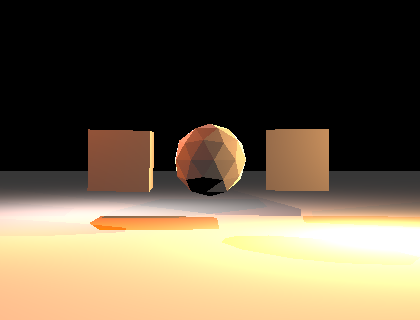
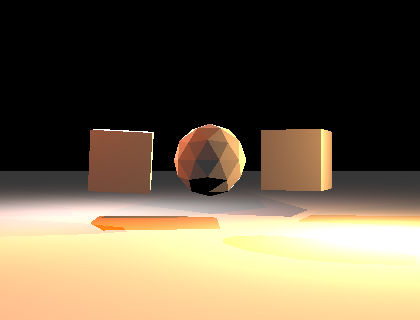
added an albedo map to PBR, cleaned up scene code a bit

diff --git a/src/material.rs b/src/material.rs
@@ -1,6 +1,6 @@
 use crate::{
     geometry::primitives::Vector,
-    lighting::{RadiometricUnit, Spectra},
+    lighting::{monochroma_spectra, white_spectra, RadiometricUnit, Spectra},
 };
 use std::{f32::consts::PI, fmt::Debug};
 
@@ -11,9 +11,11 @@ use std::{f32::consts::PI, fmt::Debug};
 pub struct PBR {
     pub metallic: f32,
     pub roughness: f32,
+    pub albedo: Spectra,
 }
 
-pub fn lamberts_law(ω: &Vector, normal: &Vector) -> f32 {
+/// Lambert's law of cosines
+pub fn cosθ(ω: &Vector, normal: &Vector) -> f32 {
     let divisor: f32 = ω.magnitude() * normal.magnitude();
 
     return ω.dot(normal) / divisor;
@@ -42,10 +44,11 @@ impl BRDF for PBR {
         let r = ω_i.magnitude();
 
         let r_o = ω_o.magnitude();
-        let incident_factor = lamberts_law(&ω_i, &normal); // cos(θ)
-        let outgoing_incident_factor = lamberts_law(&ω_o, &normal); // cos(θ)
-        let surface_irradiance =
-            (1. / (r * r)) * (incident_factor * incoming_radiant_intensity.clone());
+        let incident_factor = cosθ(&ω_i, &normal); // cos(θ)
+        let outgoing_incident_factor = cosθ(&ω_o, &normal); // cos(θ)
+        let surface_irradiance = (1. / (r * r))
+            * (incident_factor * incoming_radiant_intensity.clone())
+            * self.albedo.clone();
         // irradiance over a hemisphere divided by outgoing incidence
         let isotrophic_surface_radiance =
             (1. / (2. * PI)) / outgoing_incident_factor * surface_irradiance;
@@ -59,10 +62,21 @@ impl BRDF for PBR {
 }
 
 impl PBR {
-    pub const fn new(metallic: f32, roughness: f32) -> PBR {
+    pub const fn _new(metallic: f32, roughness: f32, albedo: Spectra) -> PBR {
         PBR {
             metallic,
             roughness,
+            albedo,
+        }
+    }
+}
+
+impl Default for PBR {
+    fn default() -> Self {
+        PBR {
+            metallic: 0.0,
+            roughness: 1.0,
+            albedo: white_spectra(RadiometricUnit::Flux),
         }
     }
 }

diff --git a/src/scene.rs b/src/scene.rs
@@ -82,37 +82,35 @@ pub fn simple_scene<'b>() -> Scene {
 
     let meshes = Vec::new();
     let mut objects = Vec::new();
-    let mesh = load_wavefront_obj("models/cube.obj".to_string());
+    let cube = load_wavefront_obj("models/cube.obj".to_string());
+    let sphere: Mesh = load_wavefront_obj("models/sphere.obj".to_string());
+    let plane: Mesh = load_wavefront_obj("models/plane.obj".to_string());
     let object = Object {
         position: Vector::new(-3.0, 0.0, -10.0),
-        meshes: vec![mesh],
+        meshes: vec![cube.clone()],
         ..Object::default()
     };
 
     objects.push(object);
 
-    let mesh = load_wavefront_obj("models/cube.obj".to_string());
     let object = Object {
         position: Vector::new(3.0, 0.0, -10.0),
-        meshes: vec![mesh],
+        meshes: vec![cube.clone()],
         ..Object::default()
     };
     objects.push(object);
-
-    let mesh: Mesh = load_wavefront_obj("models/sphere.obj".to_string());
 
     let object = Object {
         position: Vector::new(0., 0., -6.0),
-        meshes: vec![mesh],
-        material: Arc::new(PBR::new(1.0, 0.0)),
+        meshes: vec![sphere],
+        material: Arc::new(PBR::default()),
         ..Object::default()
     };
     objects.push(object);
 
-    let mesh: Mesh = load_wavefront_obj("models/plane.obj".to_string());
     let object = Object {
         position: Vector::new(0., -2., 0.0),
-        meshes: vec![mesh],
+        meshes: vec![plane],
         ..Object::default()
     };
     objects.push(object);

diff --git a/src/lighting.rs b/src/lighting.rs
@@ -150,6 +150,13 @@ pub fn black_spectra(unit: RadiometricUnit) -> Spectra {
     }
 }
 
+pub fn white_spectra(unit: RadiometricUnit) -> Spectra {
+    Spectra {
+        spectra: Array::ones(40),
+        unit: unit,
+    }
+}
+
 pub fn _const_spectra(value: f32, unit: RadiometricUnit) -> Spectra {
     Spectra {
         spectra: Array::from_elem(40, value),

diff --git a/src/object.rs b/src/object.rs
@@ -56,7 +56,7 @@ impl Default for Object {
             _orientation: _UP,
             _scale: 1.,
             _children: Vec::new(),
-            material: Arc::new(PBR::new(0.0, 1.0)),
+            material: Arc::new(PBR::default()),
             meshes: Vec::new(),
         }
     }

diff --git a/todo.md b/todo.md
@@ -1,10 +1,3 @@
-
-
-
-
-object transforms are broken, which means that the bvh is messed up
-I'm not sure how to handle the transforms
-
 position + basis vectors + scale seems fragile
 a transform has a terrible api
 
